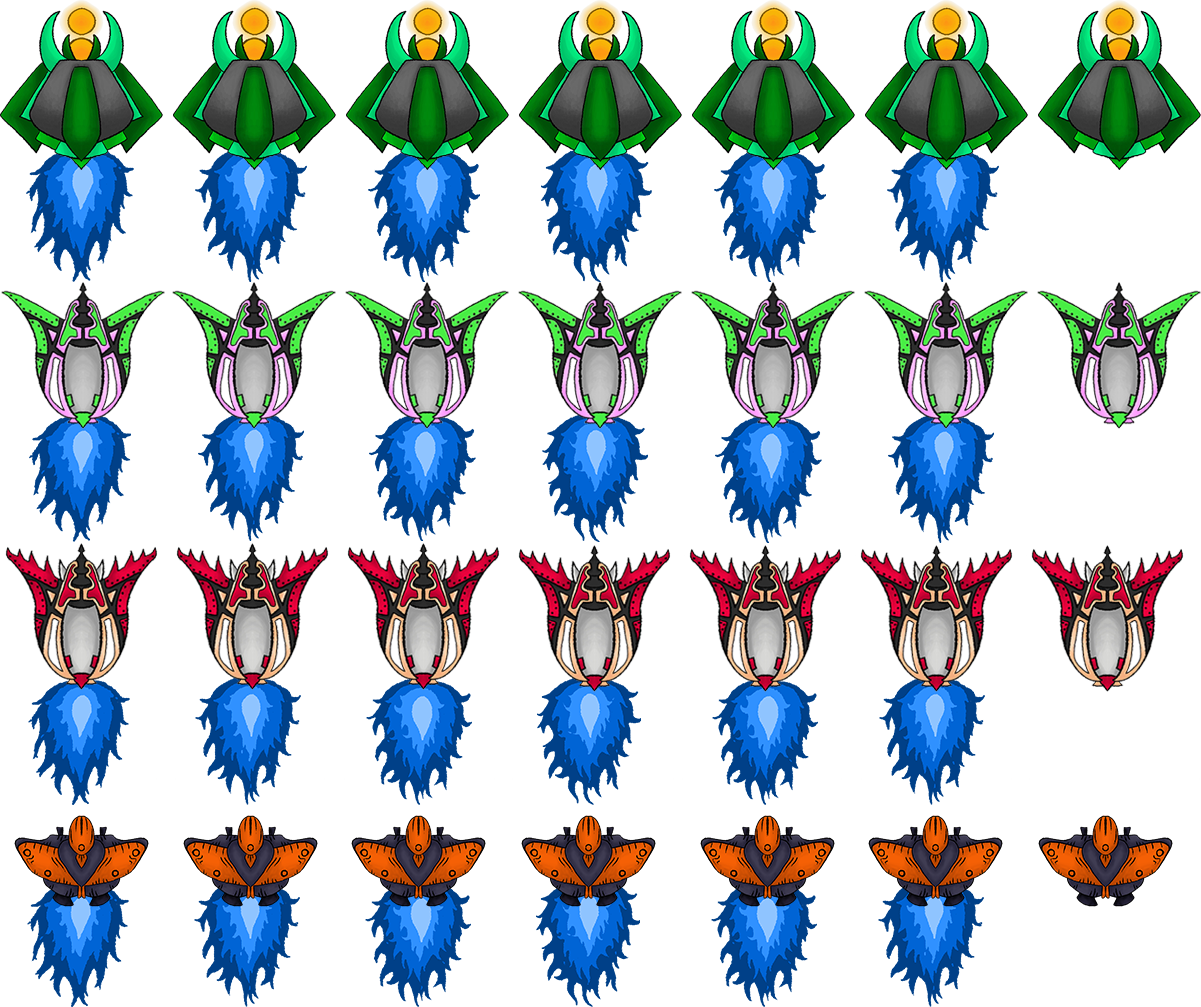
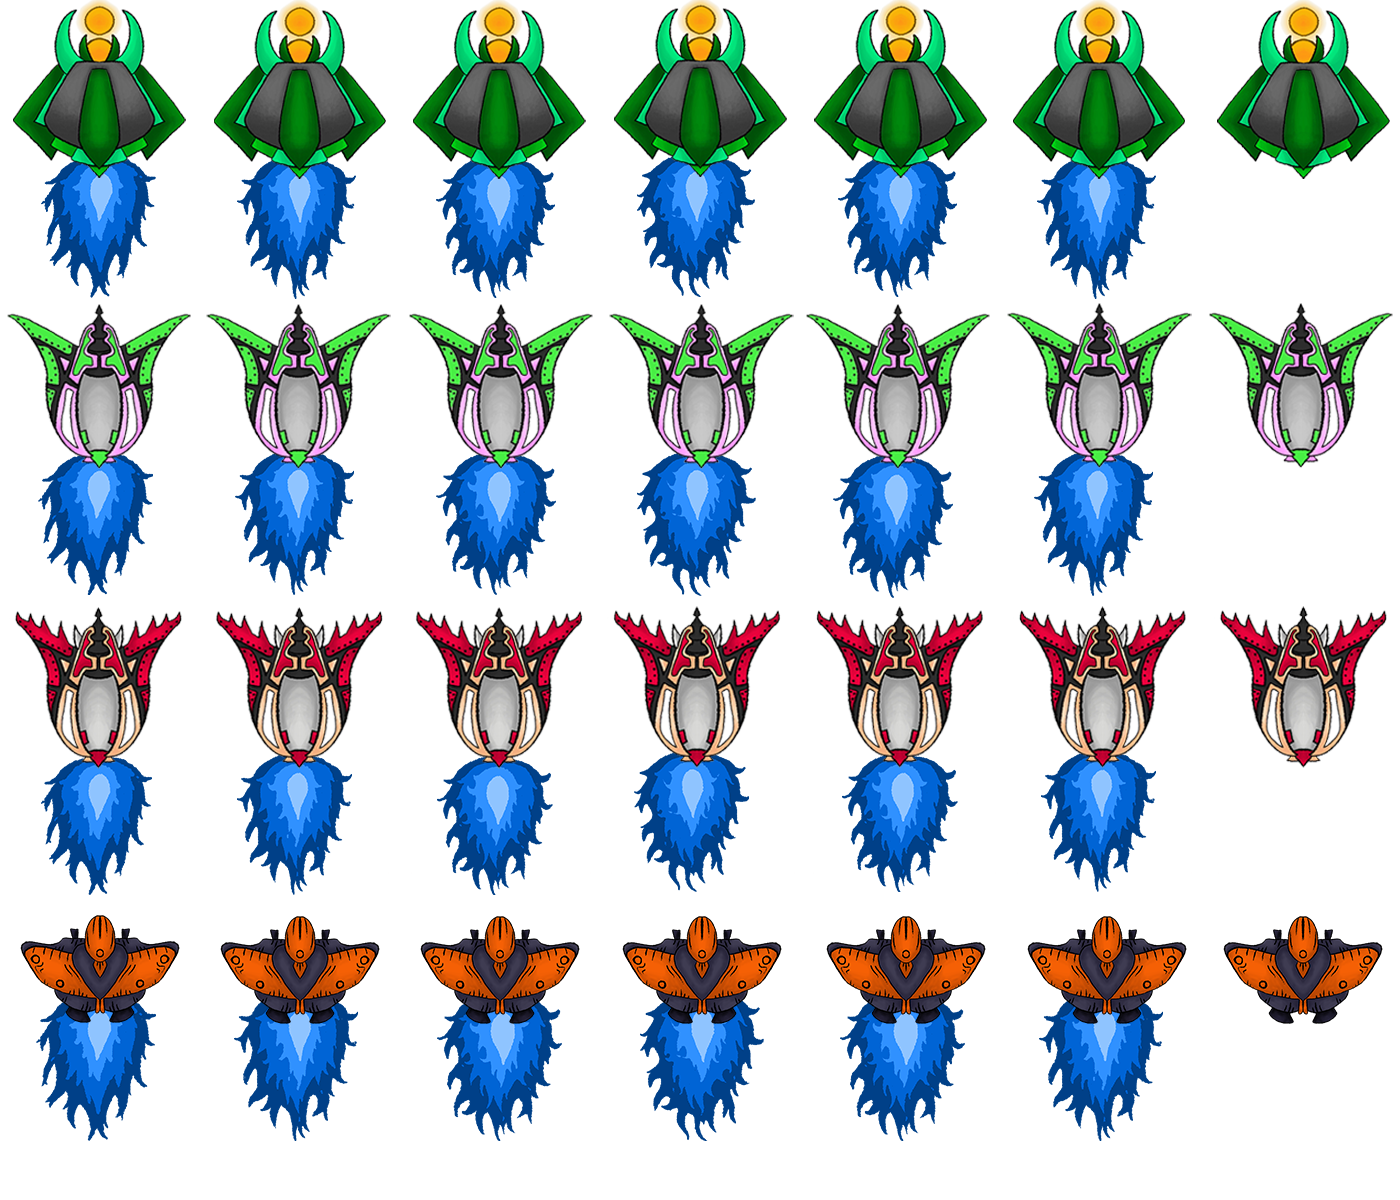
Thruster animation done

diff --git a/source/scenes/main_scene.cpp b/source/scenes/main_scene.cpp
@@ -391,16 +391,17 @@ void MainScene::createEnemyOrb() {
 	enemy->setPosition(Vector2f(xVal, yVal));
 	auto e = enemy->addComponent<SpriteComponent>();
 	e->setSprite<Sprite>(enemySprite);
-	e->getSprite().setOrigin(800, 800);
-	e->getSprite().setScale({ 0.05, 0.05 });
+	e->getSprite().setOrigin(85, 142);
+	e->getSprite().setScale({ 0.4, 0.4 });
 
-	auto rect = IntRect(0, 0, 1600, 1600); //One player ship is 1600, 1600. Spritesheet contains 4 health states
+	auto rect = IntRect(0, 0, 200, 300);
 	e->getSprite().setTextureRect(rect);
 	enemy->addComponent<SteeringComponent>(player.get(), 300.0f);
 
 
 	auto enemyComponent = enemy->addComponent<EnemyComponent>();
 	enemyComponent->setHealth(2 * healthMultiplier);
+	enemyComponent->setTextureSize(200, 285, 0);
 
 	auto phys = enemy->addComponent<PhysicsComponent>(true, Vector2f(40.0f, 40.0f), constENEMY, (short)(constBULLET | constPLAYER | constENEMY | constWALL), &enemy);
 
@@ -425,13 +426,16 @@ void MainScene::createEnemyHarpoon() {
 	enemy->setPosition(Vector2f(xVal, yVal));
 	auto e = enemy->addComponent<SpriteComponent>();
 	e->setSprite<Sprite>(enemySprite);
-	e->getSprite().setOrigin(800, 800);
-	e->getSprite().setScale({ 0.05, 0.05 });
-	auto rect = IntRect(1600, 0, 1600, 1600); //One player ship is 1600, 1600. Spritesheet contains 4 health state
+	e->getSprite().setOrigin(85, 142);
+	e->getSprite().setScale({ 0.4, 0.4 });
+
+	auto rect = IntRect(0, 300, 200, 300);
+
 	e->getSprite().setTextureRect(rect);
 	enemy->addComponent<SteeringComponent>(player.get(), 300.0f);
 	auto enemyComponent = enemy->addComponent<EnemyComponent>();
 	enemyComponent->setHealth(5 * healthMultiplier);
+	enemyComponent->setTextureSize(200, 285, 1);
 
 	auto phys = enemy->addComponent<PhysicsComponent>(true, Vector2f(40.0f, 40.0f), constENEMY, (short)(constBULLET | constPLAYER | constENEMY | constWALL), &enemy);
 
@@ -458,13 +462,14 @@ void MainScene::createEnemySpike() {
 	enemy->setPosition(Vector2f(xVal, yVal));
 	auto e = enemy->addComponent<SpriteComponent>();
 	e->setSprite<Sprite>(enemySprite);
-	e->getSprite().setOrigin(800, 800);
-	e->getSprite().setScale({ 0.05, 0.05 });
-	auto rect = IntRect(3200, 0, 1600, 1600); //One player ship is 1600, 1600. Spritesheet contains 4 health state
+	e->getSprite().setOrigin(85, 142);
+	e->getSprite().setScale({ 0.4, 0.4 });
+	auto rect = IntRect(0, 600, 200, 300);
 	e->getSprite().setTextureRect(rect);
 	enemy->addComponent<SteeringComponent>(player.get(), 300.0f);
 	auto enemyComponent = enemy->addComponent<EnemyComponent>();
 	enemyComponent->setHealth(4 * healthMultiplier);
+	enemyComponent->setTextureSize(200, 285, 2);
 
 	auto phys = enemy->addComponent<PhysicsComponent>(true, Vector2f(40.0f, 40.0f), constENEMY, (short)(constBULLET | constPLAYER | constENEMY | constWALL), &enemy);
 

diff --git a/source/components/enemy_states.cpp b/source/components/enemy_states.cpp
@@ -4,6 +4,7 @@
 #include "cmp_ai_steering.h"
 #include "cmp_bullet.h"
 #include "../game.h"
+#include "cmp_base_enemy.h"
 using namespace std;
 using namespace sf;
 //sf::Texture sprite;
@@ -11,8 +12,21 @@ using namespace sf;
 
 void FarState::execute(Entity *owner, double dt) noexcept {
     auto s = owner->get_components<SpriteComponent>()[0];
-	//s->getSprite().setColor(sf::Color::Red);
-    	
+	auto e = owner->get_components<EnemyComponent>()[0];
+
+	IntRect rect = s->getSprite().getTextureRect();
+
+	_animationFrames -= dt;
+	if (_animationFrames < 0) {
+		rect.left = e->getTextureWidth() * currentFrame;
+		currentFrame++;
+		if (currentFrame == 5) {
+			currentFrame = 0;
+		}
+		_animationFrames = 0.05;
+	}
+
+	s->getSprite().setTextureRect(rect);
 	//Change to idle if the player is closer than 450 units away
     if (length(owner->getPosition() - _player->getPosition()) < 350.0f){
         auto sm = owner->get_components<StateMachineComponent>()[0];
@@ -23,8 +37,13 @@ void FarState::execute(Entity *owner, double dt) noexcept {
 
 void NearState::execute(Entity *owner, double dt) noexcept {
 	auto s = owner->get_components<SpriteComponent>()[0];
-	//s->getSprite().setColor(sf::Color::Yellow);
-    
+	auto e = owner->get_components<EnemyComponent>()[0];
+
+	IntRect rect = s->getSprite().getTextureRect();
+	rect.left = e->getTextureWidth() * 6;
+
+	s->getSprite().setTextureRect(rect);
+
 	//Change to idle if the player is between 200 - 450 units away
     if (length(owner->getPosition() - _player->getPosition()) < 400.0f && length(owner->getPosition() - _player->getPosition()) > 250.0f){
 		auto sm = owner->get_components<StateMachineComponent>()[0];
@@ -35,9 +54,13 @@ void NearState::execute(Entity *owner, double dt) noexcept {
 
 void IdleState::execute(Entity *owner, double dt) noexcept {
 	auto s = owner->get_components<SpriteComponent>()[0];
-	//s->getSprite().setColor(sf::Color::Blue);
-	
-	
+	auto e = owner->get_components<EnemyComponent>()[0];
+
+	IntRect rect = s->getSprite().getTextureRect();
+	rect.left = e->getTextureWidth() * 6;
+
+	s->getSprite().setTextureRect(rect);
+
 	//TODO
 	//Shoot after some random time
 	//srand(time(0));

diff --git a/source/components/cmp_base_enemy.h b/source/components/cmp_base_enemy.h
@@ -10,6 +10,9 @@ protected:
     float _shotTimer;
     float _flickerTimer = 0.1;
     bool _flicker = true;
+    int textureWidth;
+    int textureHeight; 
+    int texturePos;
 
 public:
     void update(double dt) override;
@@ -17,6 +20,13 @@ public:
     explicit EnemyComponent(Entity* p, float speed = 1.0f, float damage = 1.0f, float health = 1.0f);
     EnemyComponent() = delete;
     
+	int getTextureWidth();
+    int getTextureHeight();
+
+    int getTexturePos();
+
+    void setTextureSize(int width, int height, int pos);
+
     float getHealth();
     void setHealth(float health);
     void setShot(float shotTimer);

diff --git a/source/components/cmp_base_enemy.cpp b/source/components/cmp_base_enemy.cpp
@@ -108,7 +108,26 @@ EnemyComponent::EnemyComponent(Entity* p, float speed, float damage, float healt
 
 }
 
+int EnemyComponent::getTextureWidth()
+{
+	return textureWidth;
+}
 
+int EnemyComponent::getTextureHeight()
+{
+	return textureHeight;
+}
+
+int EnemyComponent::getTexturePos()
+{
+	return texturePos;
+}
+void EnemyComponent::setTextureSize(int width, int height, int pos)
+{
+	textureWidth = width;
+	textureHeight = height;
+	texturePos = pos;
+}
 float EnemyComponent::getHealth()
 {
 	return _health;

diff --git a/source/scenes/scene_menu.cpp b/source/scenes/scene_menu.cpp
@@ -84,11 +84,11 @@ void MenuScene::Load() {
 
 	}
 	{
-		//auto txt = makeEntity();
-		//auto t = txt->addComponent<TextComponent>("Gunthrusters");
-		//t->SetPosition({ 70, gameHeight * 0.10 });
-		//t->SetSize(60);
-		//t->SetColour(sf::Color::White);
+		auto txt = makeEntity();
+		auto t = txt->addComponent<TextComponent>("Gunthrusters");
+		t->SetPosition({ 70, gameHeight * 0.10 });
+		t->SetSize(60);
+		t->SetColour(sf::Color::White);
 
 	}
 	setLoaded(true);

diff --git a/source/components/enemy_states.h b/source/components/enemy_states.h
@@ -7,6 +7,8 @@ class FarState : public State
 {
 private:
     std::shared_ptr<Entity> _player;
+	float _animationFrames = 0.2;
+	int currentFrame = 0;
 public:
     FarState(std::shared_ptr<Entity> player) : _player(player) { }
     void execute(Entity*, double) noexcept override;
